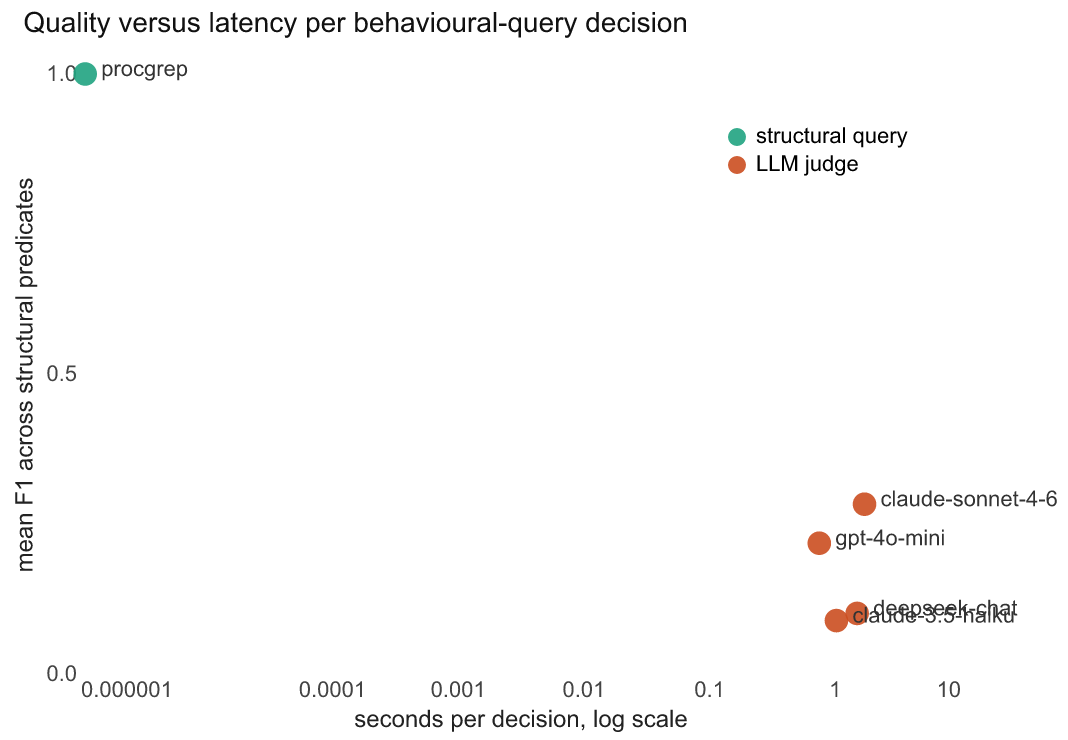
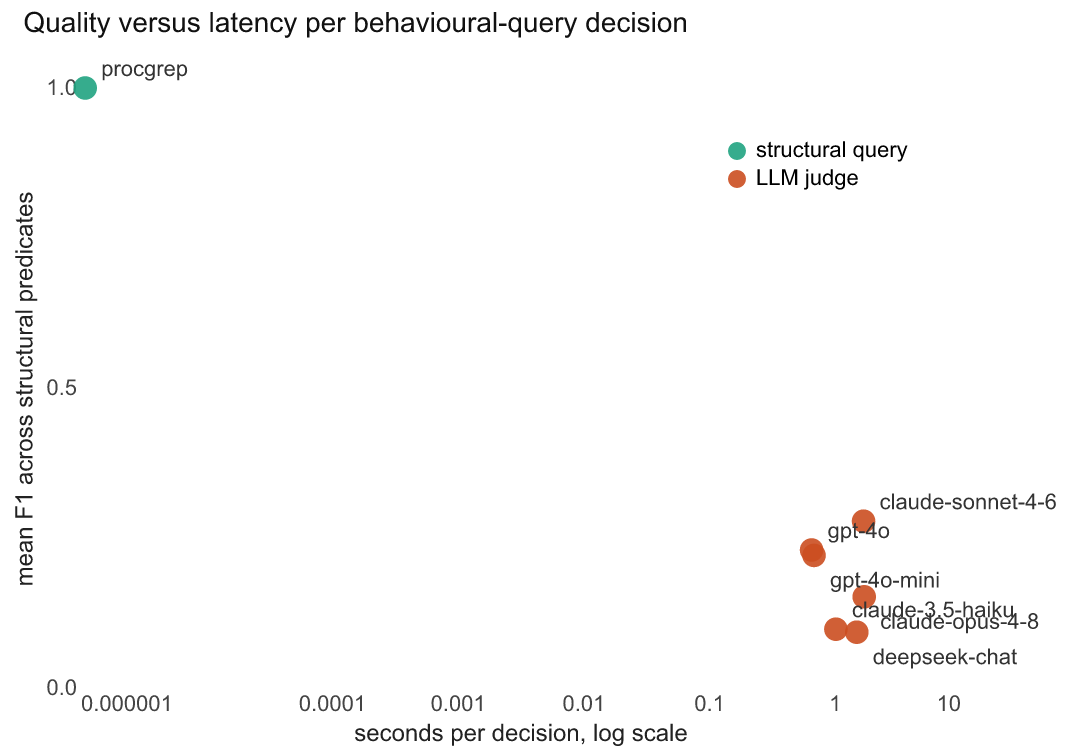
exp: add gpt-4o + claude-opus-4-8 judges (flagship also fails); split Pareto labels
6-judge result (k=30): every model incl. GPT-4o and Opus 4.8 is F1=0 on the
counting predicates; mean F1 0.09-0.28 with no quality-by-scale trend (Opus 0.15
< gpt-4o-mini 0.22). procgrep exact, ~1.1e6x faster.

diff --git a/scripts/agent_trajectories_paper/fig_query_vs_llm_pareto.py b/scripts/agent_trajectories_paper/fig_query_vs_llm_pareto.py
@@ -40,10 +40,14 @@ pts = alt.Chart(df).mark_point(size=140, filled=True, opacity=0.9).encode(
             axis=alt.Axis(domain=False, ticks=False, values=[0, 0.5, 1])),
     color=alt.Color("kind:N", scale=cs, legend=alt.Legend(title=None, orient="top-right")),
 )
-labels = alt.Chart(df).mark_text(align="left", dx=8, dy=-2, fontSize=11, color="#333333").encode(
-    x="sec:Q", y="f1:Q", text=alt.Text("name:N"),
-)
-chart = (pts + labels).properties(
+# Split labels into two vertical lanes so neighbours in the cluster don't collide.
+_up = {"procgrep", "claude-sonnet-4-6", "claude-3.5-haiku", "gpt-4o"}
+df["lane"] = df["name"].apply(lambda n: "up" if n in _up else "down")
+lab_up = alt.Chart(df[df.lane == "up"]).mark_text(
+    align="left", dx=8, dy=-9, fontSize=11, color="#333333").encode(x="sec:Q", y="f1:Q", text="name:N")
+lab_dn = alt.Chart(df[df.lane == "down"]).mark_text(
+    align="left", dx=8, dy=13, fontSize=11, color="#333333").encode(x="sec:Q", y="f1:Q", text="name:N")
+chart = (pts + lab_up + lab_dn).properties(
     width=440, height=300,
     title=alt.TitleParams("Quality versus latency per behavioural-query decision",
                           fontWeight="normal", fontSize=14, anchor="start", dx=6),

diff --git a/scripts/agent_trajectories_paper/query_vs_llm.py b/scripts/agent_trajectories_paper/query_vs_llm.py
@@ -71,12 +71,15 @@ FUZZY = {
         "code but performs the wrong operations, or the right operations in the wrong order",
     ),
 }
-# 3 cheap judges + 1 stronger judge (does scale clear the structural predicates?).
+# Cheap -> strong -> flagship, to test whether scale clears the structural
+# predicates (it does not).
 DEFAULT_JUDGES = (
     "openai/gpt-4o-mini",
     "anthropic/claude-3.5-haiku",
     "deepseek/deepseek-chat",
     "anthropic/claude-sonnet-4-6",
+    "openai/gpt-4o",
+    "anthropic/claude-opus-4-8",
 )
 RNG = np.random.RandomState(0)
 
